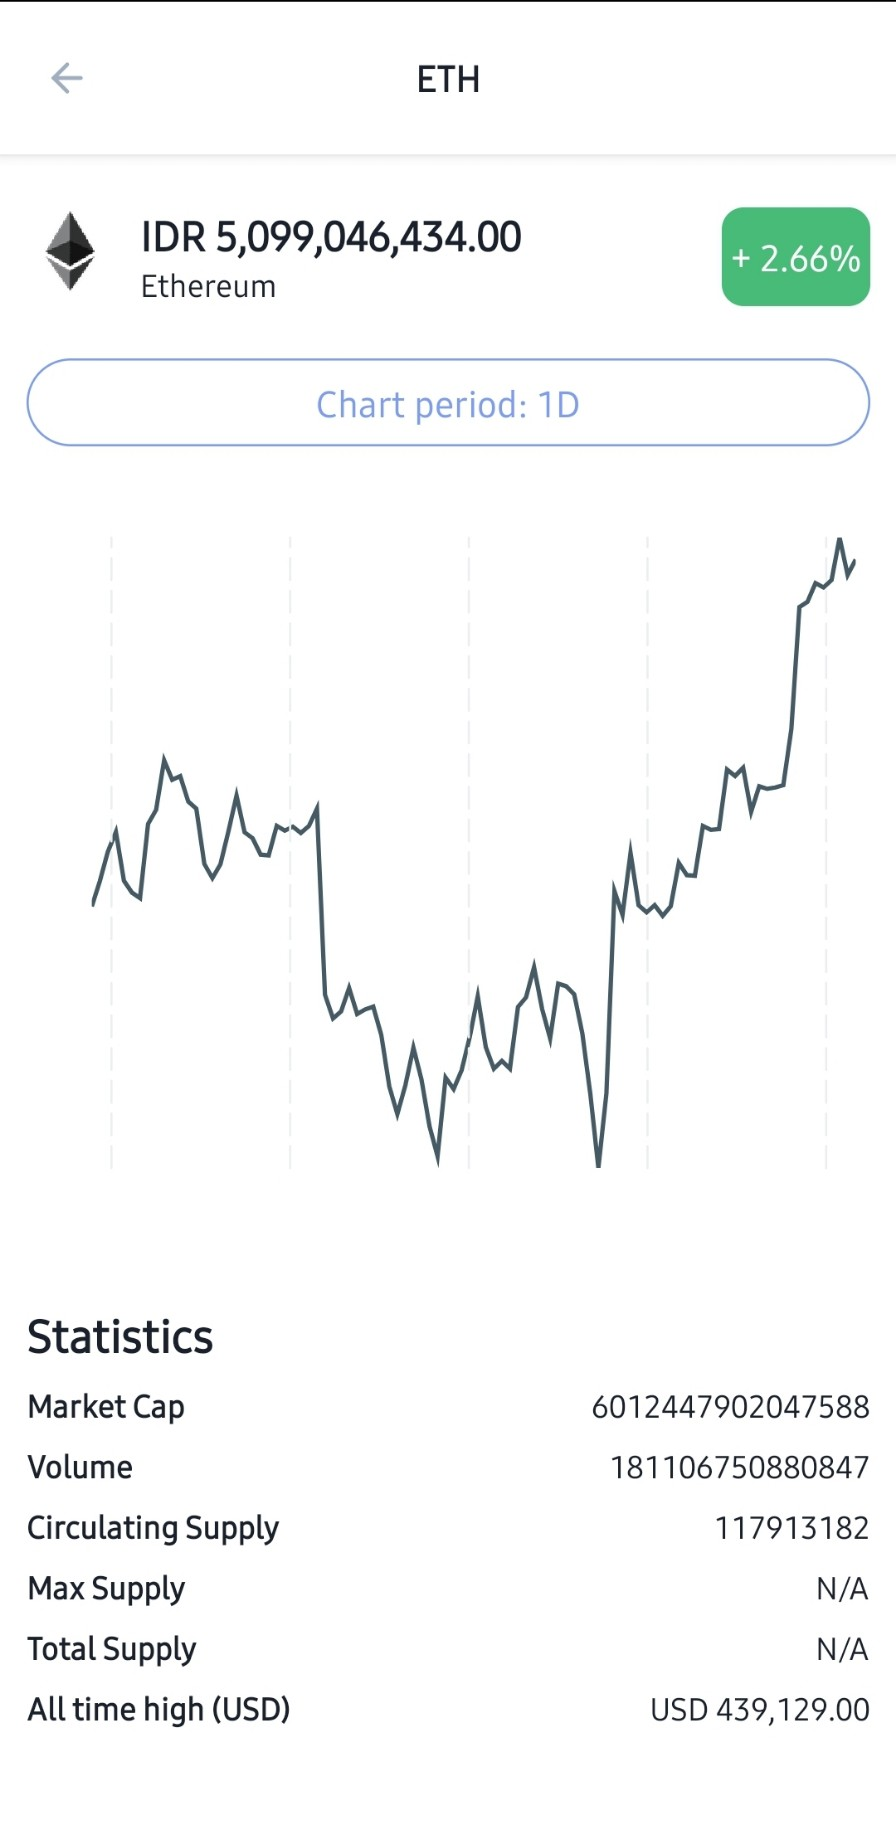
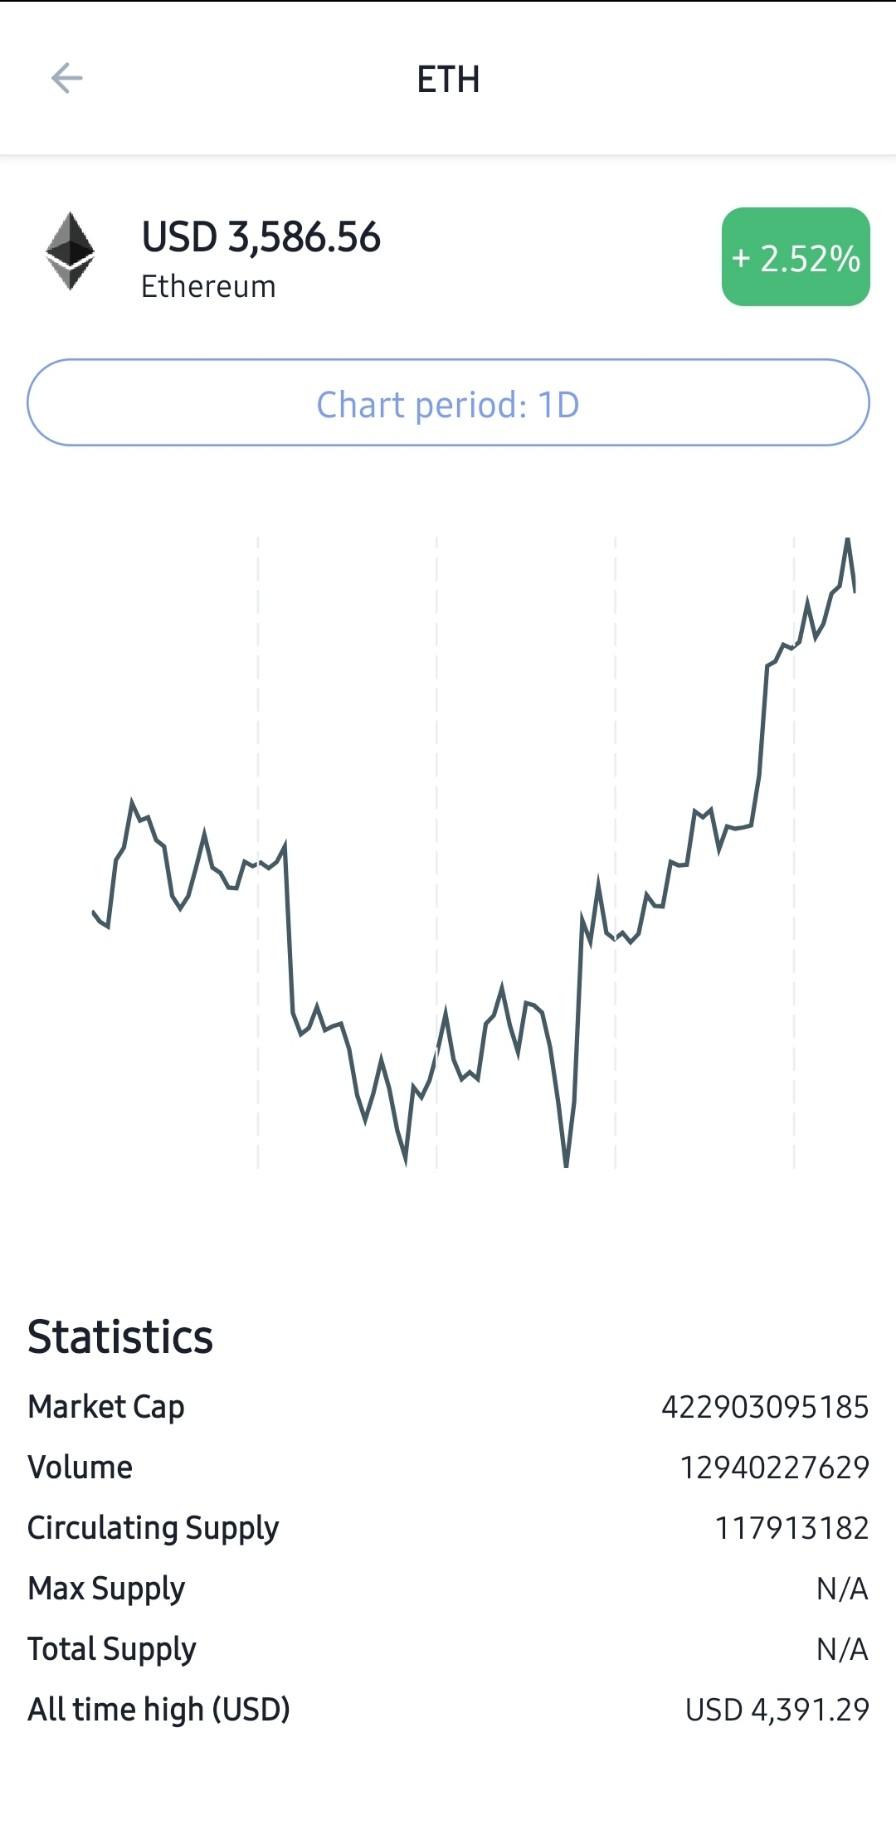
bugfix: Fix price formatting

diff --git a/src/utils/money.ts b/src/utils/money.ts
@@ -3,6 +3,5 @@ import type {Money} from "ts-money"
 export {Money, Currencies} from "ts-money"
 export const formatCurrency = (money: Money): string =>
   `${money.getCurrency()} ${money
-    .getAmount()
-    .toFixed(2)
-    .replace(/\d(?=(\d{3})+\.)/g, "$&,")}`
+    .toString()
+    .replace(/(\d)(?=(\d{3})+(?:\.\d+)?$)/g, "$1,")}`
